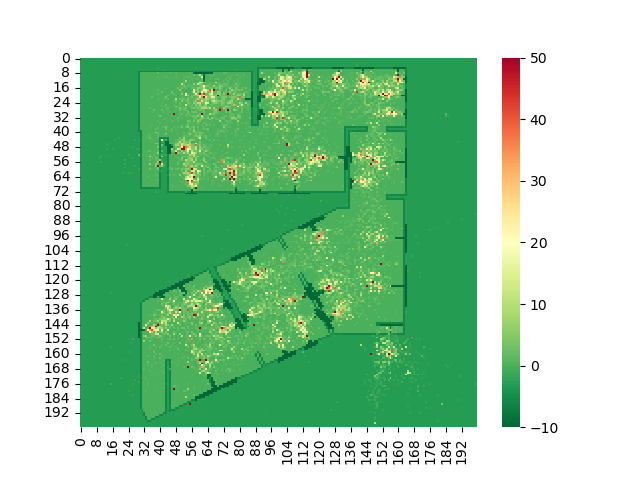
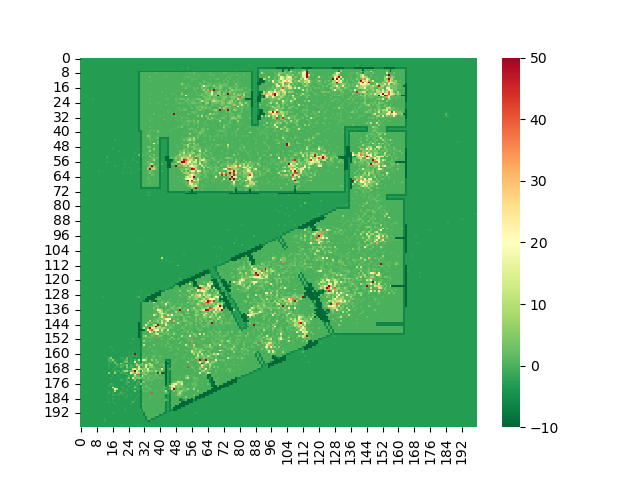
,

diff --git a/module/search.py b/module/search.py
@@ -28,8 +28,6 @@ class MonteCarloTreeSearch:
                 best_state = max_state
             pbar.set_description("Depth : %d, Reward: %f"%(cur_depth, reward))
             v.backpropagate(reward)
-            if cur_depth > 20:
-                break 
         # exploitation only
         return best_state
 
@@ -44,8 +42,8 @@ class MonteCarloTreeSearch:
     
 if __name__ == "__main__":
     Tree = MonteCarloTreeSearch(MCTSNode(SceneState(MuseumScene())))
-    best_state = Tree.best_action(700)
+    best_state = Tree.best_action(10000)
     best_scene = best_state.scene.scene_data
     #dictionary to pickle data
-    with open('best_scene_700.pickle', 'wb') as f:
+    with open('best_scene_100.pickle', 'wb') as f:
         pickle.dump(best_scene, f, pickle.HIGHEST_PROTOCOL)

diff --git a/module/nodes.py b/module/nodes.py
@@ -54,16 +54,13 @@ class MCTSNode(object):
         return self.is_leap
     
     def is_terminate(self):
-        if self.depth > 20:
-            return True
-        else:
-            return False
+        return False
     
     def rollout(self):
         current_rollout_state = self.state
         max_reward = 0.
         max_state = None
-        for idx in range(1):
+        for idx in range(10):
             # print("Rollout: ", idx)
             possible_moves = current_rollout_state.get_legal_actions()
             action = self.rollout_policy(possible_moves)

diff --git a/module/museum.py b/module/museum.py
@@ -195,7 +195,7 @@ class MuseumScene():
 
         g_weight = 1.0
         r_weight = 0.0
-        s_weight = 0.0
+        s_weight = 0.9
 
         g_cost = goal_cost(self.scene_data, self.artwork_data, self.wall_data)
         r_cost = 0
